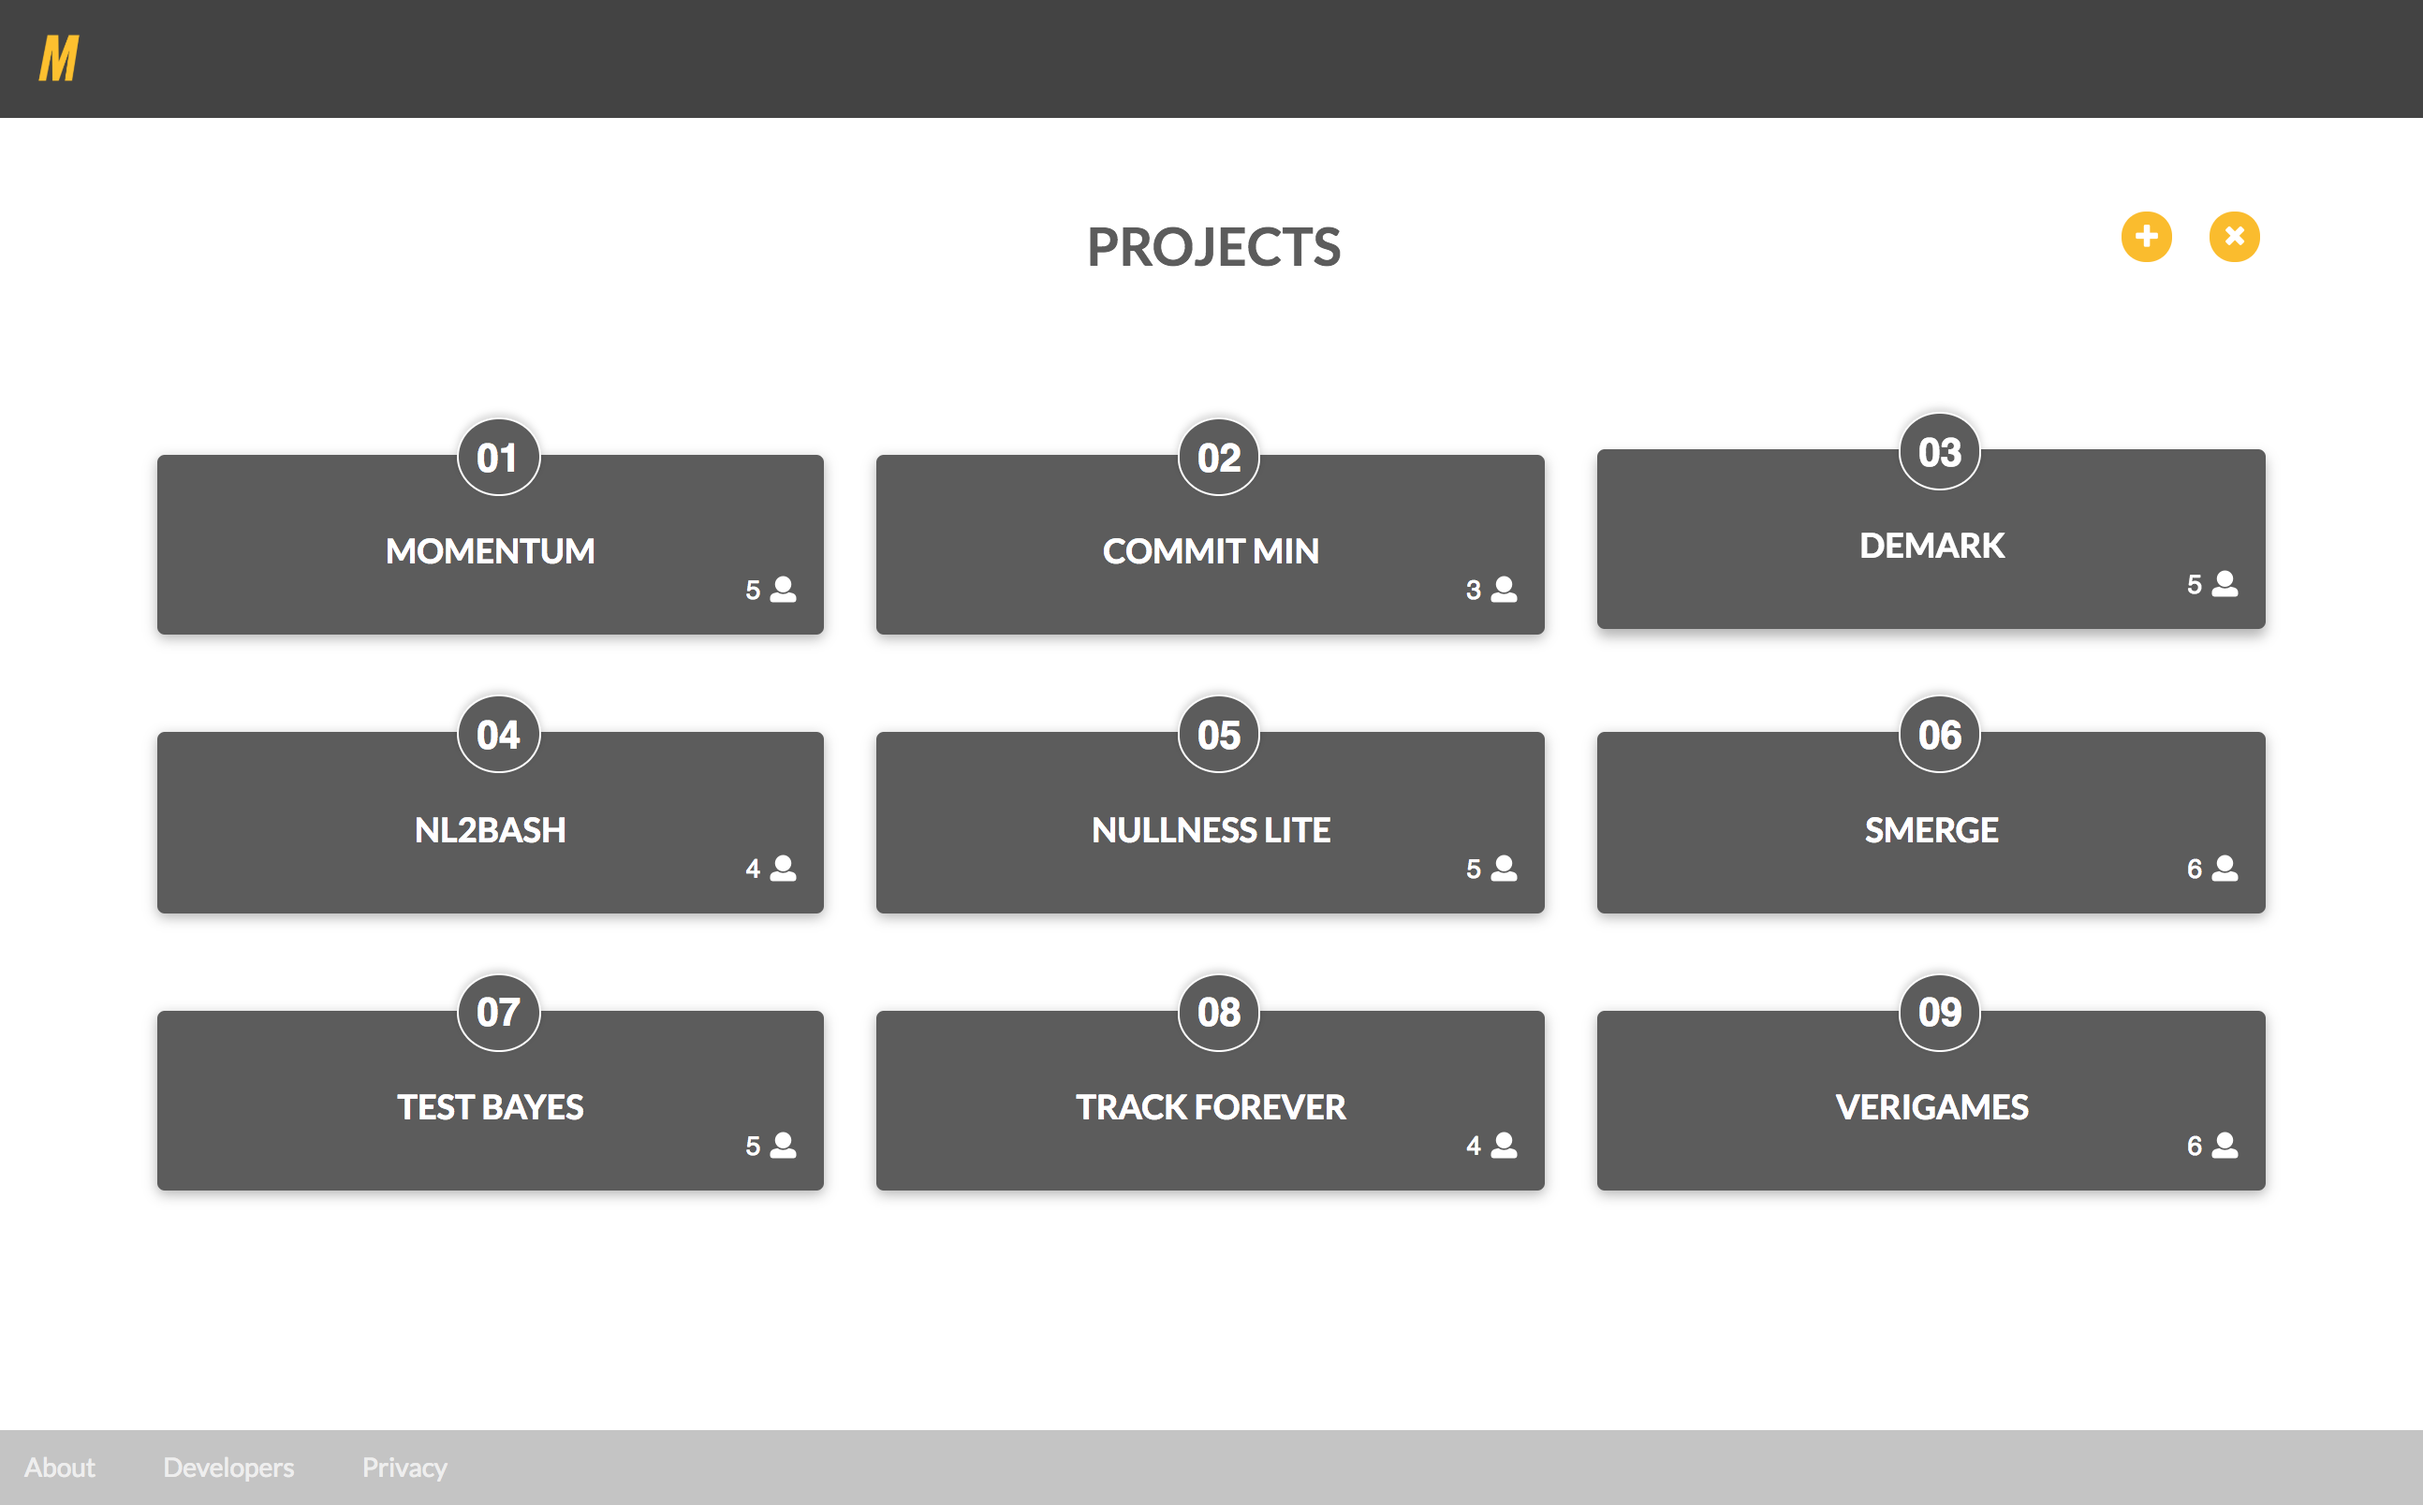
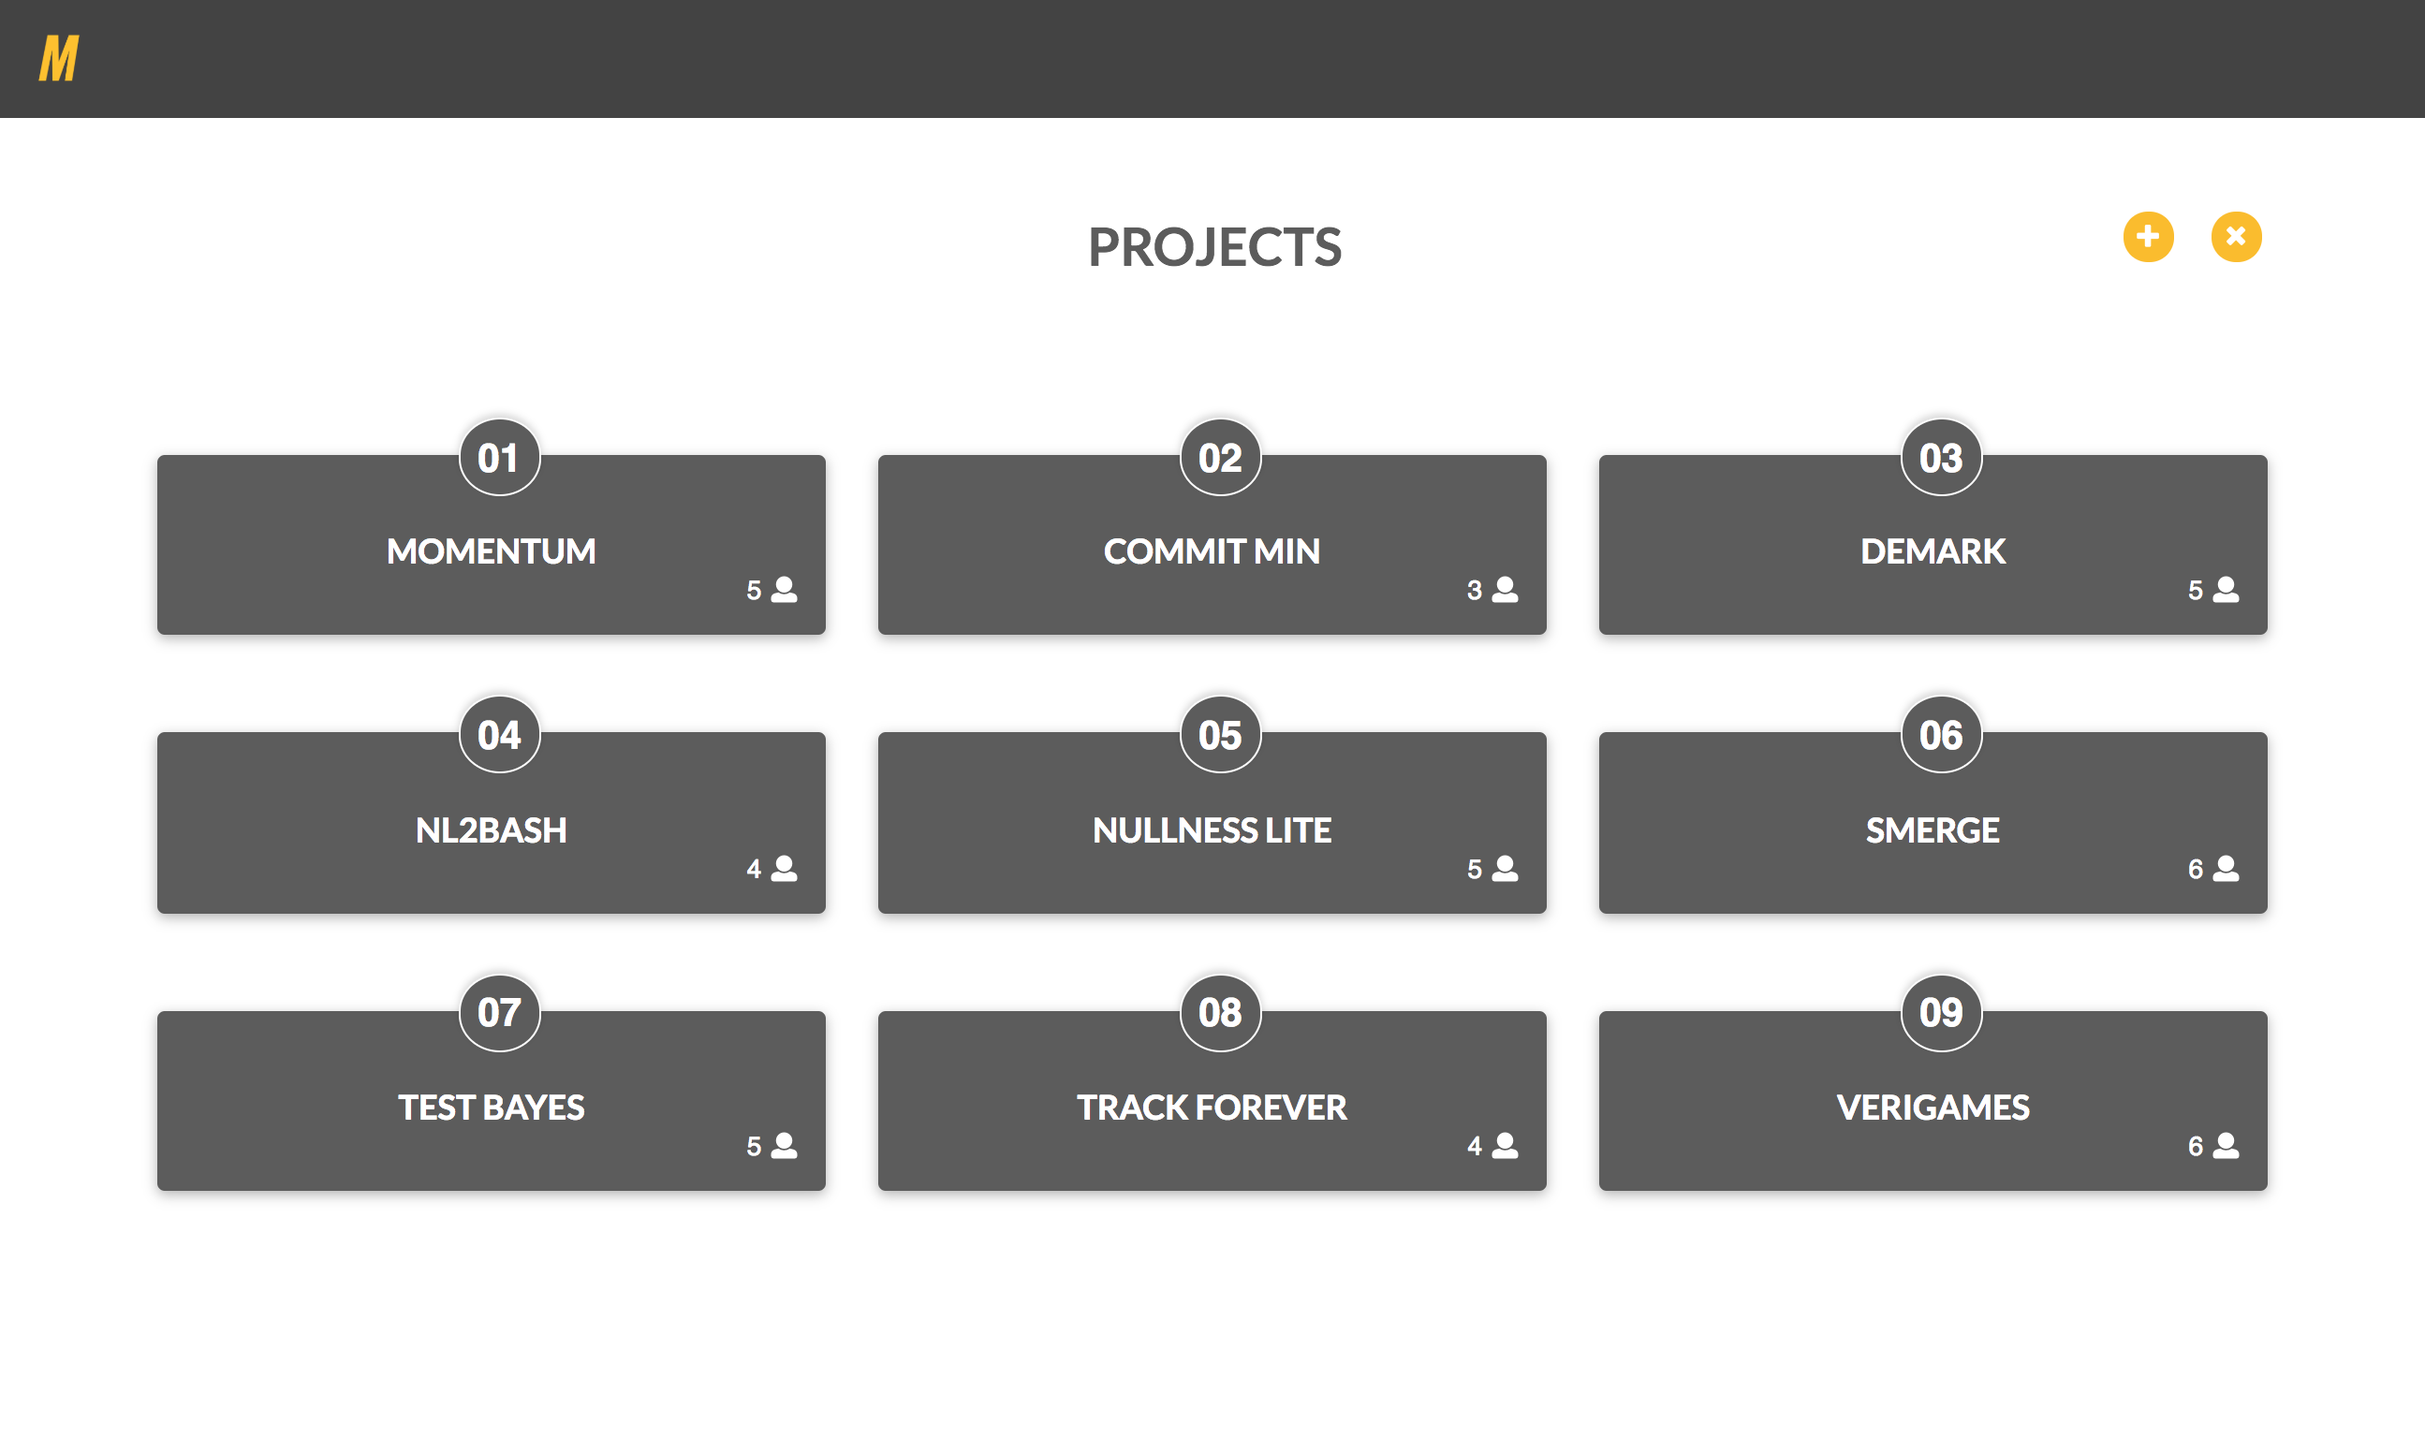
fix typo and update screenshot with no footer bar

diff --git a/user-manual.md b/user-manual.md
@@ -56,8 +56,7 @@ You may sign up for a new account at [cse403-momentum.github.io/MOMENTUM/join](h
 
 If you already have an account, you may log in at [cse403-momentum.github.io/MOMENTUM/login](https://cse403-momentum.github.io/MOMENTUM/login).
 
-![Figure 2. Login page] 
-(resources/user-manual-imgs/mockup/login.png)
+![Figure 2. Login page](resources/user-manual-imgs/mockup/login.png)
 *Figure 2. Login page*
 
 ### Creating and Managing Projects
